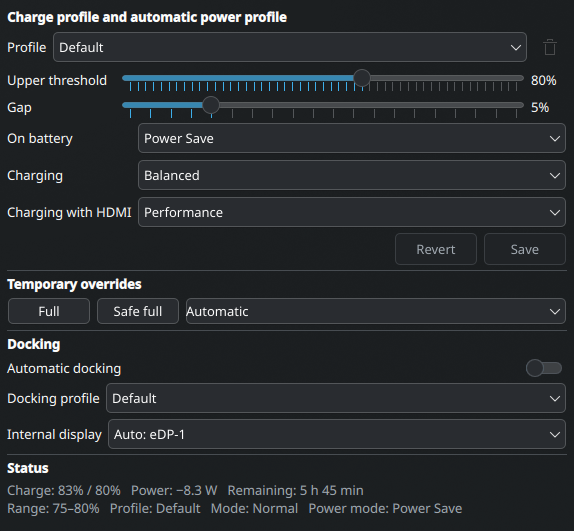
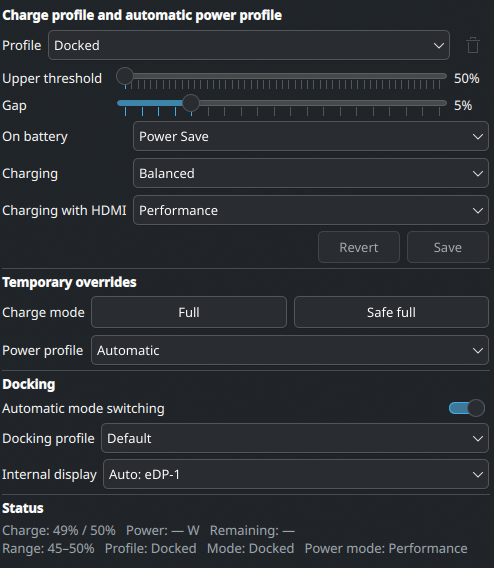
Release 2.8.13

diff --git a/README.md b/README.md
@@ -1,5 +1,14 @@
 # Battery Charge Limits for Plasma 6
 
+> **Critical boot fix for versions 2.8.11 and 2.8.12:** The systemd service in
+> these versions can deadlock Fedora's graphical boot before the login screen.
+> Version 2.8.13 removes the display-manager ordering that causes the deadlock
+> and adds 10-second service timeouts. Users who ran `./install.sh` with an
+> affected version should update immediately. If necessary, disable the old
+> service with `sudo systemctl disable --now battery-charge-limits.service`.
+> See the [complete recovery and upgrade instructions](#required-boot-fix-for-versions-2811-and-2812),
+> including how to recover through GRUB when graphical boot no longer works.
+
 A Plasma 6 panel widget for controlling the generic Linux battery charge
 thresholds while showing live battery and power-profile information.
 
@@ -61,7 +70,7 @@ already installed:
 
 ```sh
 kpackagetool6 --type Plasma/Applet --install \
-  org.kde.plasma.batterythresholds-2.8.12.plasmoid
+  org.kde.plasma.batterythresholds-2.8.13.plasmoid
 ```
 
 The same limitation applies when installing from KDE's **Get New Widgets**
@@ -81,11 +90,87 @@ git pull
 ```
 
 The installer also enables `battery-charge-limits.service`. It stores the last
-normal charge limits in `/etc/battery-charge-limits.conf` and restores them at
-boot before the display manager starts. Temporary Full and Safe full actions
-are deliberately not persisted.
+normal charge limits in `/etc/battery-charge-limits.conf` and restores them
+during graphical boot without delaying the display manager. The restore has a
+short timeout so battery-driver problems cannot hold up boot indefinitely.
+Temporary Full and Safe full actions are deliberately not persisted.
 
 The script detects an existing package and uses Plasma's upgrade operation.
+
+### Required boot fix for versions 2.8.11 and 2.8.12
+
+The service shipped with versions 2.8.11 and 2.8.12 can deadlock Fedora's
+graphical boot before the login screen appears. This affects only users who ran
+`./install.sh`; installing the standalone `.plasmoid` does not install the
+system service.
+
+I sincerely apologize to anyone whose system was affected by this bug. Shipping
+a release that could block graphical boot was a serious mistake, and versions
+2.8.11 and 2.8.12 did not meet the quality standard that users should be able to
+expect from this project.
+
+If the desktop still starts, update the source checkout and reinstall:
+
+```sh
+cd /path/to/ThinkCharge
+git pull --ff-only
+./install.sh
+```
+
+If graphical boot hangs, boot once into the text-only target:
+
+1. Select the normal boot entry in GRUB and press `e`.
+2. Append `systemd.unit=multi-user.target` to the line beginning with `linux`
+   or `linuxefi`.
+3. Boot the edited entry with `Ctrl`+`X` or `F10` and log in at the text
+   console.
+4. Disable the old service before doing anything else:
+
+   ```sh
+   sudo systemctl disable --now battery-charge-limits.service
+   ```
+
+5. Update and reinstall from the existing checkout as your regular user:
+
+   ```sh
+   cd /path/to/ThinkCharge
+   git pull --ff-only
+   ./install.sh
+   ```
+
+Do not run the complete installer with `sudo`. If updated source is not yet
+available, leave the old service disabled and return to graphical boot with:
+
+```sh
+sudo reboot
+```
+
+After downloading or extracting the updated source, run `./install.sh` to
+install and re-enable the corrected service. Verify the installed unit with:
+
+```sh
+systemctl cat battery-charge-limits.service
+systemctl show battery-charge-limits.service \
+  --property=Before \
+  --property=TimeoutStartUSec \
+  --property=TimeoutStopUSec
+```
+
+`Before=` must not contain `display-manager.service`; both timeouts should be
+10 seconds. Adding only a timeout to the old unit is not sufficient because the
+deadlock prevents the helper process from starting in the first place.
+
+After successful verification, reboot normally without the temporary kernel
+parameter:
+
+```sh
+sudo systemctl reboot
+```
+
+If graphical boot still fails, use the text-only recovery procedure again,
+disable the service again, and reboot. The widget remains usable, but saved
+limits will not be restored automatically during boot while the service is
+disabled.
 
 ## Uninstall
 
@@ -143,6 +228,16 @@ Build the versioned `.plasmoid` and SHA-256 checksum in `dist/`:
 
 See [CHANGELOG.md](CHANGELOG.md) for release history and [RELEASE.md](RELEASE.md)
 for the maintainer checklist.
+
+## Hardware and warranty disclaimer
+
+I can test this project only on my own device. Battery firmware, kernel drivers,
+sysfs interfaces, display managers, and distribution boot configurations vary
+between systems. I therefore cannot guarantee that charge-limit changes, boot
+restoration, or every other feature will work correctly on a particular
+machine. Use the software at your own risk and keep a working recovery method,
+such as the text-only boot procedure above, available. The software is provided
+without warranty under the terms of its license.
 
 ## License
 

diff --git a/RELEASE.md b/RELEASE.md
@@ -6,7 +6,7 @@
 3. Run `./scripts/build-release.sh`.
 4. Install the generated `.plasmoid` in a clean Plasma user session and verify
    profile editing, temporary overrides, AC changes, HDMI changes, and docking.
-5. Commit the release, create an annotated tag such as `v2.8.12`, and push it.
+5. Commit the release, create an annotated tag such as `v2.8.13`, and push it.
 6. Create the Git hosting release from that tag and attach the `.plasmoid` and
    `.sha256` files from `dist/`.
 7. For the store.kde.org listing, state prominently that **Get New Widgets only
@@ -26,12 +26,15 @@ will ask for `sudo` once.
 
 ## Suggested release title
 
-Battery Charge Limits 2.8.12
+Battery Charge Limits 2.8.13
 
 ## Suggested release notes
 
-Battery Charge Limits 2.8.12 runs automatic docking detection only when
-Automatic mode switching is enabled. Switching it off immediately restores the
-saved normal profile, and the setting persists across Plasma restarts. HDMI
-power-profile selection remains independent from automatic docking.
+Battery Charge Limits 2.8.13 fixes a boot-critical Fedora deadlock introduced
+with the charge-limit restoration service in versions 2.8.11 and 2.8.12. The
+service no longer blocks the display manager, and both its startup and shutdown
+are limited to ten seconds. Users who installed either affected version through
+`./install.sh` should update immediately. Recovery instructions are included in
+the README. I sincerely apologize to everyone affected; releasing a service
+capable of blocking graphical boot was a serious mistake.
 See `CHANGELOG.md` for the complete list.

diff --git a/CHANGELOG.md b/CHANGELOG.md
@@ -2,6 +2,12 @@
 
 All notable changes to this project are documented here.
 
+## 2.8.13 — 2026-08-07
+
+- Prevent a Fedora boot deadlock by no longer ordering the charge-limit restore
+  before the display manager, and bound both service startup and shutdown to
+  ten seconds.
+
 ## 2.8.12 — 2026-08-06
 
 - Run automatic docking detection only while Automatic mode switching is
